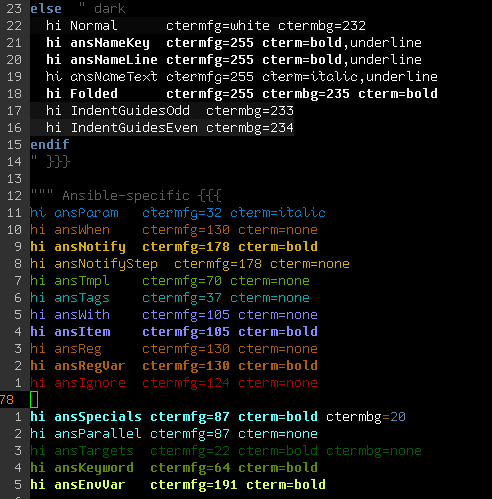
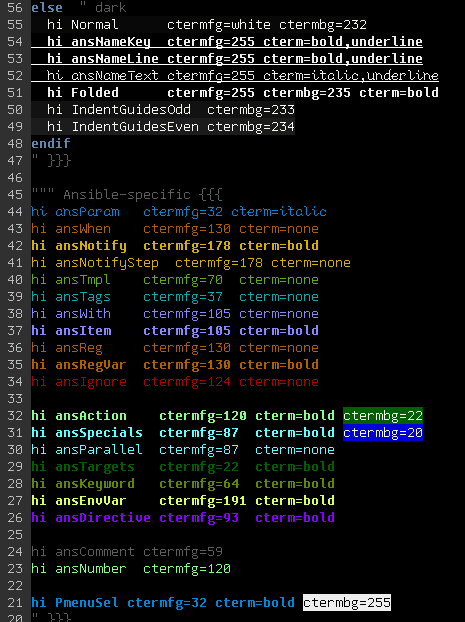
add limitations, underline, fix precedence
New screenshot

Changed region(s): [[0.0, 0.0, 0.9634, 1.0], [0.7226, 0.4208, 0.7527, 0.4509]]

diff --git a/README.md b/README.md
@@ -1,3 +1,6 @@
+# ctermhi
+
+Notice the treatment of 256 colors, bold, italic, and underline.
 ![ctermhi!](https://raw.githubusercontent.com/MicahElliott/vim-cterm-highlight/master/ctermhi.png)
 
 This plugin simply highlights the `:hi` lines in a colorscheme file. It
@@ -14,4 +17,4 @@ If you use Vundle, add this line to `$MYVIMRC`:
 
 And run `:Bundle`.
 
-Copyright © Micah Elliott. vim:ft=help:
+Copyright © Micah Elliott.
